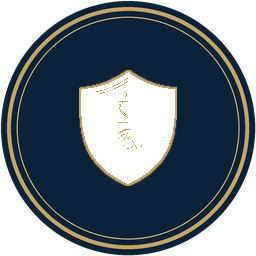
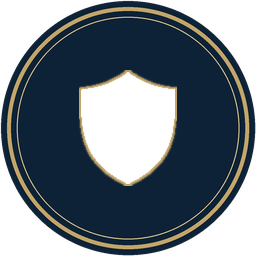
fix(icones): silhueta solida do escudo (sem furos da arte interna) e regeneracao das pecas de marca

diff --git a/scripts/imagens/comum.py b/scripts/imagens/comum.py
@@ -128,6 +128,25 @@ def _dilatar(mascara, px):
     return mascara.filter(ImageFilter.MaxFilter(2 * px + 1))
 
 
+def _silhueta_cheia(mascara, limiar=64):
+    """Fecha a silhueta: preenche cada linha entre o primeiro e o último pixel (remove furos internos).
+
+    O PNG recortado do logotipo tem alfa baixo nas áreas douradas (a arte interna), o que
+    deixaria buracos ao recolorir o escudo. O escudo é convexo na horizontal em cada linha,
+    então preencher faixas por linha devolve o corpo sólido sem alterar o contorno.
+    """
+    a = np.asarray(mascara) > limiar
+    saida = np.zeros_like(a)
+    for y in range(a.shape[0]):
+        xs = np.flatnonzero(a[y])
+        if xs.size:
+            saida[y, xs[0]:xs[-1] + 1] = True
+    suave = (Image.fromarray((saida * 255).astype(np.uint8), "L")
+             .filter(ImageFilter.GaussianBlur(1.1))
+             .point(lambda v: 255 if v > 128 else 0))
+    return suave.filter(ImageFilter.GaussianBlur(0.5))
+
+
 def escudo_mascara(altura, recolorir=None, contorno=(0, 0, 0), contorno_px=0):
     """Silhueta do escudo do logotipo (fonte real da marca), opcionalmente recolorida."""
     esc = redimensionar_altura(carregar_logos()["escudo-marinho"], altura)
@@ -149,7 +168,7 @@ def escudo_simples(altura, preenchimento=MARINHO, contorno=OURO, contorno_px=6, 
     pad = contorno_px
     tela = (base.width + pad * 2, base.height + pad * 2)
 
-    m = base.getchannel("A").point(lambda v: 255 if v > limiar else 0)
+    m = _silhueta_cheia(base.getchannel("A"), limiar)
     mascara = Image.new("L", tela, 0)
     mascara.paste(m, (pad, pad))
 
